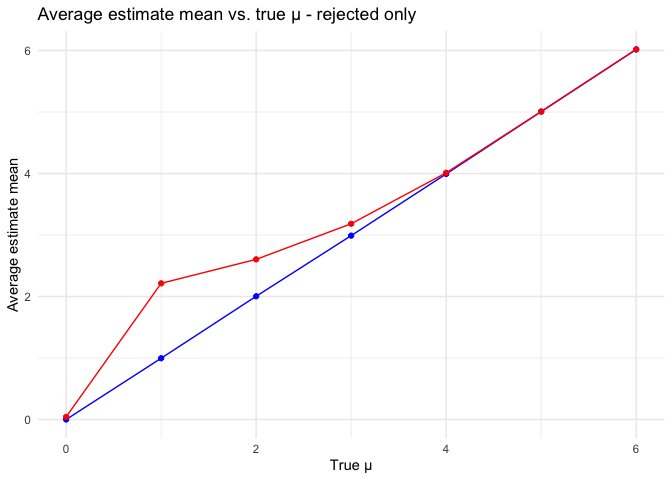
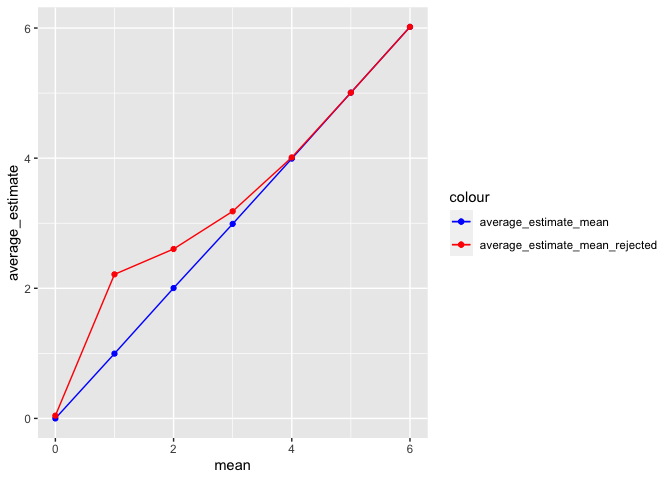
Add lab to last graph

diff --git a/p8105_hw5_lc3807.md b/p8105_hw5_lc3807.md
@@ -374,15 +374,21 @@ average_estimate_mean_rejected = mu_all |>
   summarize(average_estimate = mean(mu_hat))
 
 ggplot() +
-  geom_line(data = average_estimate_mean, aes(x = mean, y = average_estimate),color = "blue") +
-  geom_point(data = average_estimate_mean, aes(x = mean, y = average_estimate),color = "blue") +
-  geom_line(data = average_estimate_mean_rejected, aes(x = mean, y = average_estimate),color = "red") +
-  geom_point(data = average_estimate_mean_rejected, aes(x = mean, y = average_estimate), color = "red") +
+  geom_line(data = average_estimate_mean, aes(x = mean, y = average_estimate,color = "average_estimate_mean")) +
+  geom_point(data = average_estimate_mean, aes(x = mean, y = average_estimate,color = "average_estimate_mean")) +
+  geom_line(data = average_estimate_mean_rejected, aes(x = mean, y = average_estimate,color = "average_estimate_mean_rejected")) +
+  geom_point(data = average_estimate_mean_rejected, aes(x = mean, y = average_estimate, color = "average_estimate_mean_rejected")) +
+  scale_color_manual(values = c("average_estimate_mean" = "blue", "average_estimate_mean_rejected" = "red"))
+```
+
+![](p8105_hw5_lc3807_files/figure-gfm/unnamed-chunk-11-1.png)<!-- -->
+
+``` r
   labs(x = "True μ",y = "Average estimate mean",title = "Average estimate mean vs. true μ - rejected only") +
   theme_minimal() 
 ```
 
-![](p8105_hw5_lc3807_files/figure-gfm/unnamed-chunk-11-1.png)<!-- -->
+    ## NULL
 
 It is possible to note that the average estimate means of whose nulls
 are rejected deviate from the true mean (which is always greater) when
